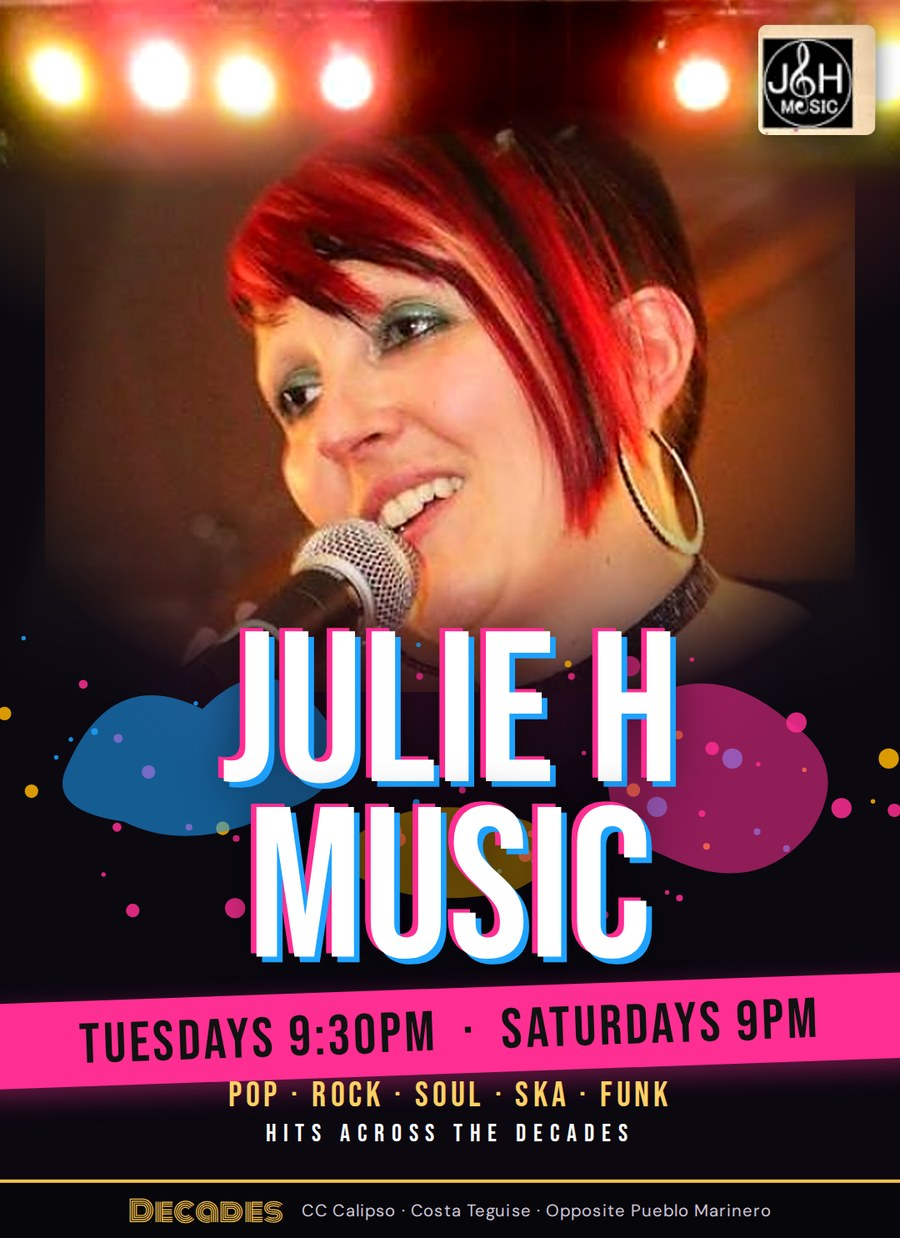
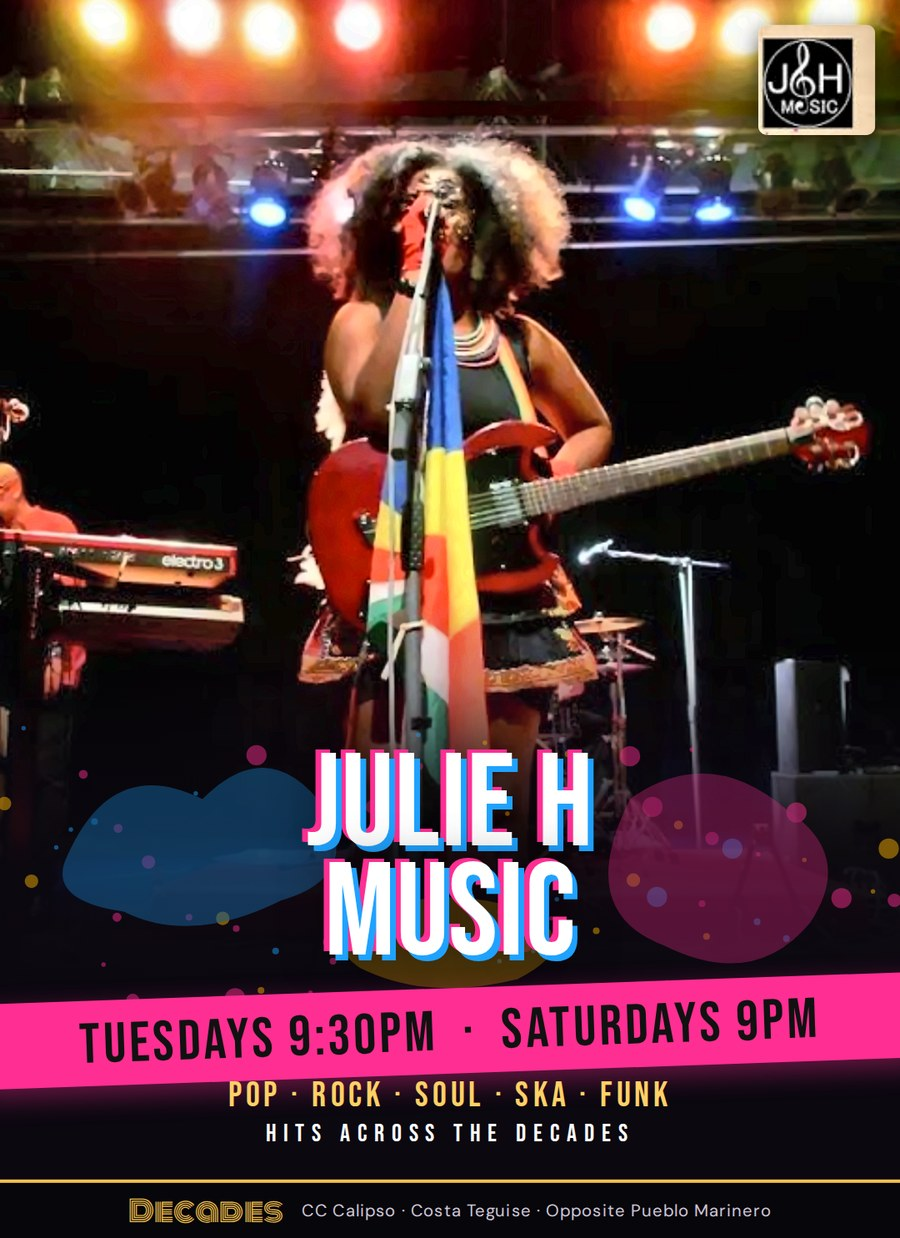
Decades: Julie H poster now uses the live stage photo as its centrepiece
Crop the stage photo, remove the Google Lens overlay, denoise and boost
contrast and colour, then rebuild the poster around it with the title,
both show times and genres over the stage floor.

Claude-Session: https://claude.ai/code/session_01EwdQSxmc24fBGNp9VeAmiQ

diff --git a/decades/index.html b/decades/index.html
@@ -581,7 +581,7 @@
           </div>
         </article>
         <article class="day reveal" data-day="2">
-          <button class="day-poster" onclick="openLb(this)" aria-label="View Julie H Music poster"><img src="images/julie-h-music.jpg" alt="Julie H Music live at Decades Costa Teguise, Tuesdays 9:30pm and Saturdays 9pm: pop, rock, soul, ska and funk hits" loading="lazy" width="900" height="1238"></button>
+          <button class="day-poster" onclick="openLb(this)" aria-label="View Julie H Music poster"><img src="images/julie-h-music.jpg" alt="Julie H Music poster: live on stage with guitar, at Decades Costa Teguise on Tuesdays 9:30pm and Saturdays 9pm" loading="lazy" width="900" height="1238"></button>
           <div class="day-body">
             <div class="day-name"><span data-lang="en">TUESDAY</span><span data-lang="es">MARTES</span></div>
             <h3>Julie H Music</h3>
@@ -616,7 +616,7 @@
           </div>
         </article>
         <article class="day reveal" data-day="6">
-          <button class="day-poster" onclick="openLb(this)" aria-label="View Julie H Music Saturday poster"><img src="images/julie-h-music.jpg" alt="Julie H Music live at Decades Costa Teguise, Tuesdays 9:30pm and Saturdays 9pm: pop, rock, soul, ska and funk hits" loading="lazy" width="900" height="1238"></button>
+          <button class="day-poster" onclick="openLb(this)" aria-label="View Julie H Music Saturday poster"><img src="images/julie-h-music.jpg" alt="Julie H Music poster: live on stage with guitar, at Decades Costa Teguise on Tuesdays 9:30pm and Saturdays 9pm" loading="lazy" width="900" height="1238"></button>
           <div class="day-body">
             <div class="day-name"><span data-lang="en">SATURDAY</span><span data-lang="es">SÁBADO</span></div>
             <h3>Julie H Music</h3>

diff --git a/CLAUDE.md b/CLAUDE.md
@@ -37,4 +37,4 @@ Other deliberate duplication to keep in sync:
 
 ## `decades/` — separate site
 
-`decades/index.html` is a **separate, unrelated site** for Decades Sports & Show Bar (CC Calipso, Costa Teguise), not part of Hippie Chippy. It is a single self-contained bilingual page (same `data-lang` / `body.lang-es` convention, but its own design tokens and `decades_lang` storage key). Hippie Chippy's "apply to all six pages" rule does not apply to it. Takeaway number: +34 631 275 201 (reservations are not a focus — keep CTAs on takeaway, not booking). Menu prices were transcribed from photos of the bar's menu board — re-check them against the current menu when editing. Event posters live in `decades/images/`: `julie-h-music.jpg` (used Tue and Sat) is a designed composite of Julie H's own Facebook poster photo under a stage-lights backdrop; karaoke, Soul & Motown sign, Retro Brothers, happy hour and House of Fun are perspective-corrected and colour-enhanced extracts from a photo of the bar's poster board; `sports-night.jpg` and `quiz-night.jpg` are designed posters (not official ones). Menu dish images are inline SVG illustrations (`<symbol id="d-…">` in the page's `<defs>`), not photos. The Sports Night (Monday) and Pub Quiz (Thursday) days were chosen by us — confirm with the bar.
+`decades/index.html` is a **separate, unrelated site** for Decades Sports & Show Bar (CC Calipso, Costa Teguise), not part of Hippie Chippy. It is a single self-contained bilingual page (same `data-lang` / `body.lang-es` convention, but its own design tokens and `decades_lang` storage key). Hippie Chippy's "apply to all six pages" rule does not apply to it. Takeaway number: +34 631 275 201 (reservations are not a focus — keep CTAs on takeaway, not booking). Menu prices were transcribed from photos of the bar's menu board — re-check them against the current menu when editing. Event posters live in `decades/images/`: `julie-h-music.jpg` (used Tue and Sat) is a designed poster built around a live stage photo supplied by the owner (from the Julie H Music Facebook page); karaoke, Soul & Motown sign, Retro Brothers, happy hour and House of Fun are perspective-corrected and colour-enhanced extracts from a photo of the bar's poster board; `sports-night.jpg` and `quiz-night.jpg` are designed posters (not official ones). Menu dish images are inline SVG illustrations (`<symbol id="d-…">` in the page's `<defs>`), not photos. The Sports Night (Monday) and Pub Quiz (Thursday) days were chosen by us — confirm with the bar.
